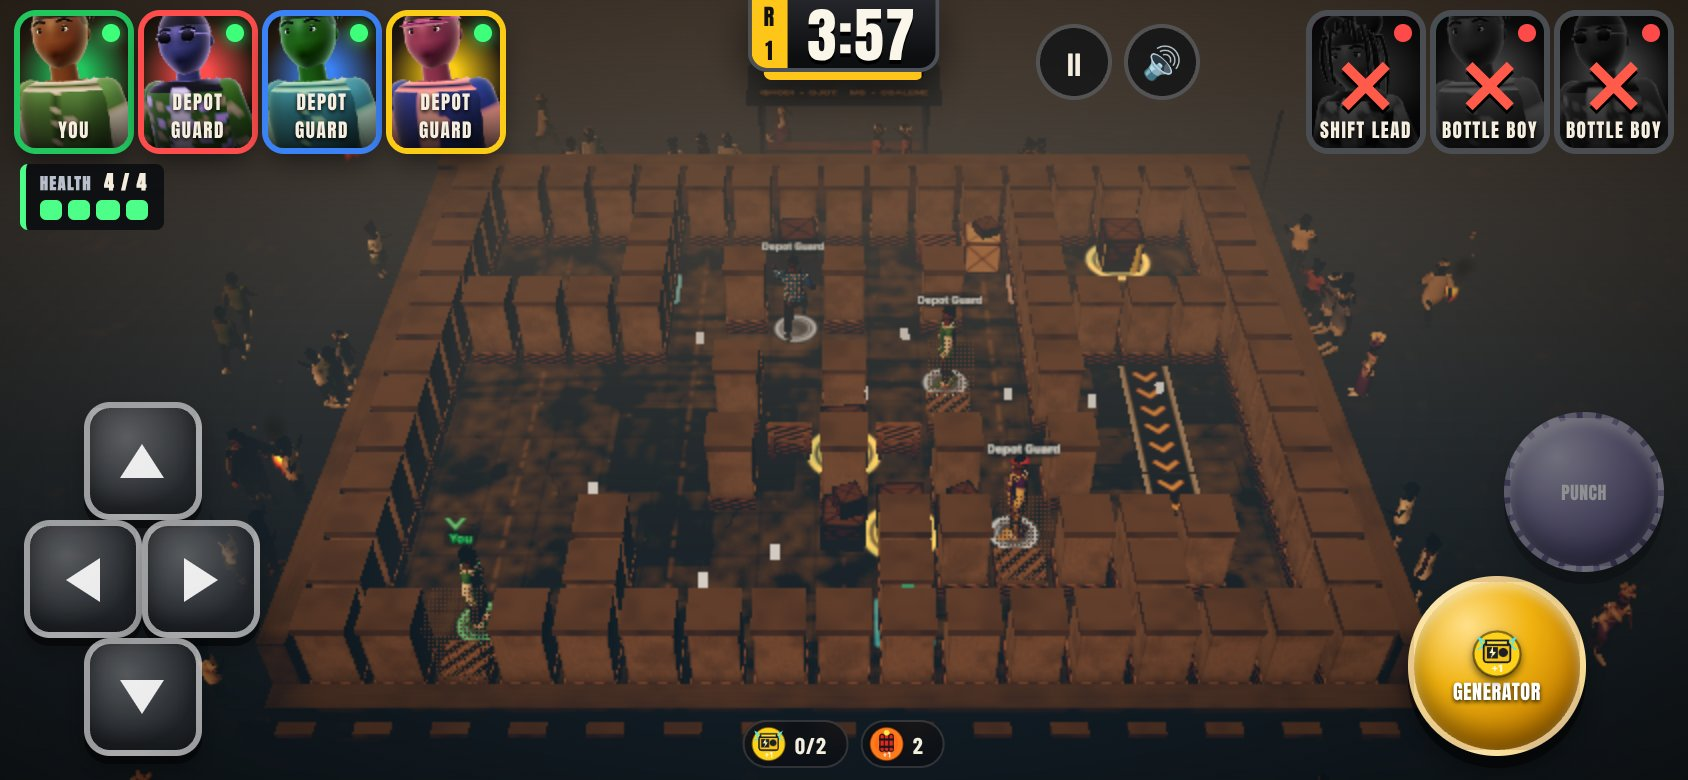
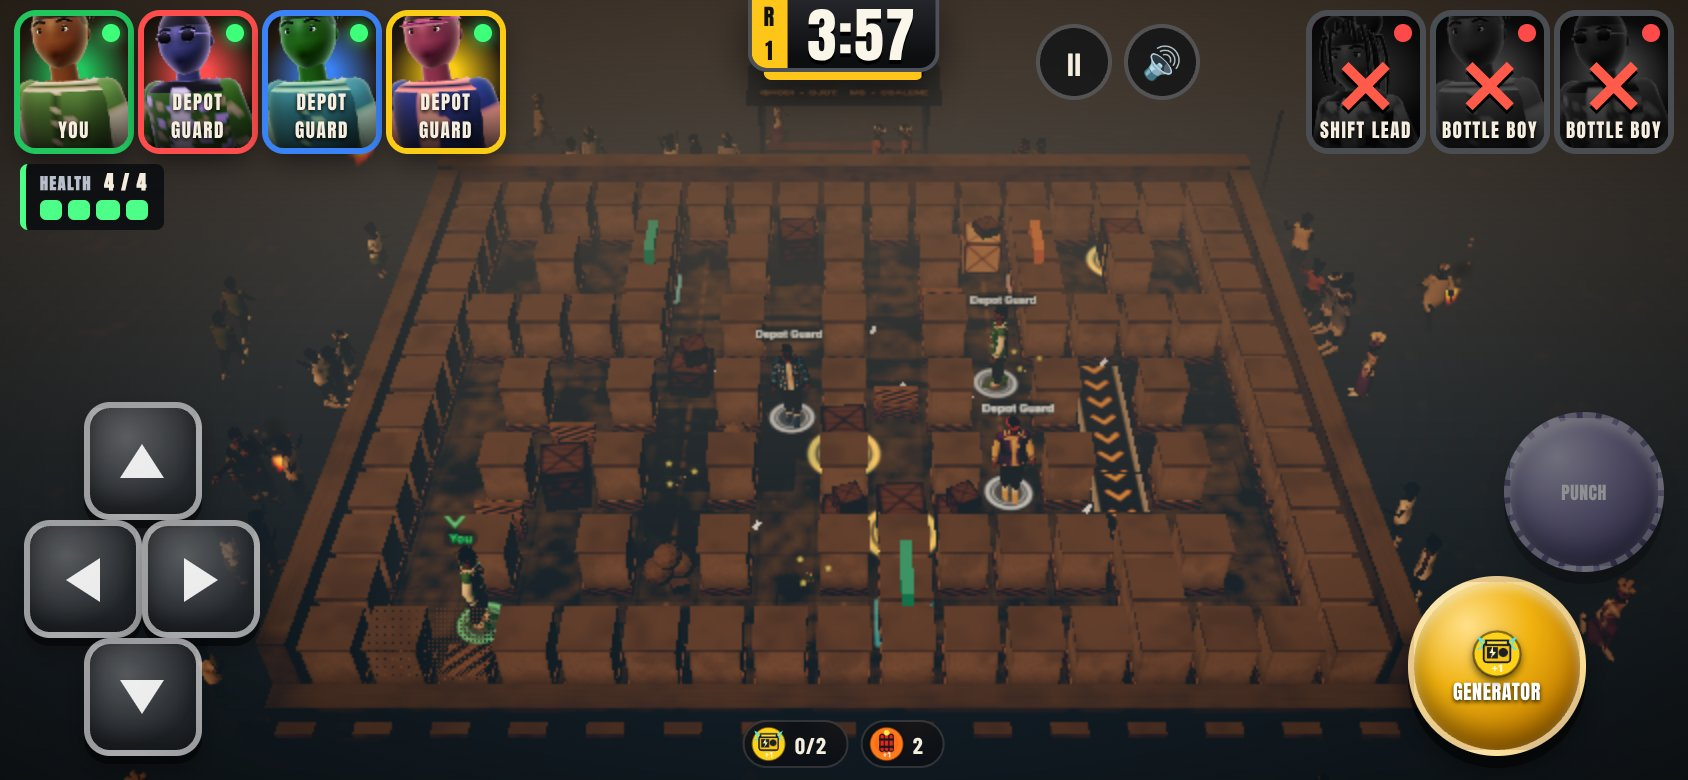
Integration report: classic grid, checkpoint clarity and fair enemy combat; active-enemy browser shots
Claude-Session: https://claude.ai/code/session_01QeTP4yfJfvzQ1TfQbTJU26

diff --git a/docs/CLASSIC_GRID_COMBAT_INTEGRATION.md b/docs/CLASSIC_GRID_COMBAT_INTEGRATION.md
@@ -1,0 +1,71 @@
+# Classic grid, checkpoint clarity and fair enemy combat: integration report
+
+Branch `claude/wahala-classic-grid-combat-v1`, from the deployed release `a4fe457`. **Not merged, not deployed.** Founder review first.
+Detail per part: `CLASSIC_GRID.md` (raid layouts, before/after boards and metrics), `CHECKPOINT_CLARITY.md` (markers and wording),
+`ENEMY_COMBAT_FAIRNESS.md` (measured enemy behaviour, before/after tables, the Normal baseline). Decisions: CG1-CG9, CK1-CK8, EF1-EF8.
+
+## Root causes
+
+1. **Open raids.** Four of the six classic raids were authored as open floors: the depot had 54 open 2x2 squares (18 open 3x3) and
+   only half its pillar lattice; the rail yard 74 / 37 with 7 of 28 pillars; the storeroom and the vault's bottom hall were patchy.
+   Cross bombs need corridors: in a hall every blast has a free side step, so nothing can be trapped. Movement itself was already
+   cardinal; no clipping was found.
+2. **Checkpoints.** Walk-through checkpoints complete the instant you step on the current one (no waiting); the warehouse door needs a
+   1 s hold. Both were drawn with the same pad and filling ring, so a walk-through checkpoint looked like a "wait here" pad; the text did
+   not say "no waiting"; on phones the objective could be cut off; the compass could prefer an optional door.
+3. **Enemies.** Campaign enemies ran the full multiplayer bot planner (perfect fuse knowledge: 81-88 % of basic enemies in a fresh
+   blast cross walked out), had no punishable recovery after attacking, and the player's melee carried the multiplayer anti-chain limits
+   (3 s per-target lockout), so a 2-health guard took 3+ s of standing next to it. Repeated interruption was NOT a cause (0 chains
+   measured); the frequency of interruptions was.
+
+## What changed (summary; the per-part documents have the detail)
+
+- **Raids (CG):** the depot, rail yard, storeroom and vault are classic pillar mazes (open 2x2 now 0 / 3 / 0 / 1, open 3x3 0, pillar
+  lattice 32/34, 27/28, 24/24, 29/30); every mechanic kept; a shape rule in `raidProblems` (`src/sim/raid/shape.ts`) rejects any raid with
+  an open 3x3, more than 4 open 2x2 (only in rooms, at belts or at the entrance/exit) or under 85 % of the lattice; raid pillars drawn at
+  72 % height so corridors stay visible from the fixed camera. Tool shed and standby plant were already classic (one crate moved so the
+  entrance pocket has two exits).
+- **Checkpoints (CK):** a tall beacon for walk-through checkpoints (current bright gold with an arrow, later faint, reached ones flash and
+  keep a tick), a different square pad with a fill ring for hold-to-interact doors, a "HOLD 0.4 / 1.0 s" bar in the rail, a reached notice
+  with the next objective, GO TO / HOLD / DEFEAT / ESCAPE / RETURN tags with "walk through, no waiting", "all must go down", "fights
+  optional", and plain objective lines for all eleven field missions. No rule, timing or position changed.
+- **Enemies (EF, campaign seats only; multiplayer byte-identical):** limited bomb awareness (late notice of a generator while brawling,
+  a seeded slip), a rooted recovery after punches and throws, no attacks from inside a noticed blast cross, a 1.1 s cap on the player's
+  per-enemy lockout, steadfast heavies/bosses against jabs, field pursuers give up beyond 14 tiles, and a fix for field seat 1 being
+  forced to Standard. Normal baseline = the Casual bot level (Standard = candidate Hard; Rookie/Beginner = candidate Easy).
+- **Integration (this report):** the fairness harness now picks fights by walking distance; on the maze depot straight-line distance put
+  an enemy "two tiles away" behind a pillar and the scripted player bombed a wall until the clock ran out.
+
+## Verification
+
+- Unit: the integrated targeted set (raids, enemies, field, missions, campaign, app, ui, render, input, audio, blast rules, combat,
+  architecture) 1883 tests, all passing after the harness fix; multiplayer hash and bot-digest regressions unchanged.
+- Active enemies (real bots, real raid runtime, scripted player using only walk / generator / punch): the maze depot is completed in
+  11 of 12 seeds at Normal (Casual) with 0-1 deaths, 0-3 health lost and no interruption chain. The miss (seed 2) is a timeout, not a
+  defeat: the lieutenant hovers round a pillar corner, out of every cross, while the scripted player keeps bombing from one corridor
+  mouth. A human would come round the other side; it is listed below.
+- Browser smoke (built preview, desktop and phone): checkpoint clarity (reach, notice, door hold, raid start), field mission, raid with
+  cross bombs and cargo destroyed, enemy projectile, field to raid and back, boss bar, campaign death and respawn, mobile cross, no
+  blast toggle in Rumble: 21 passed, 1 skipped (a phone-only test on the desktop project). Production build and the static check pass.
+- One browser run of the maze depot with the real enemy bots awake (`docs/screenshots/classic-grid-combat/`): enemies act, no page
+  errors; the health loss in the second picture is the scripted player's own blast (it walked only two tiles), shown as "HIT BY BLAST".
+
+## Still needs human gameplay verification
+
+- How the mazes FEEL to play with real hands: trap opportunities, whether corridors are too tight on a phone, belt crossings in the yard.
+- Advanced enemies hovering: a lieutenant can stay out of every cross at a pillar corner without committing to an attack. If that reads
+  as "it just runs away", the next step is an anti-hover commitment (after N seconds near the player without attacking, it must close in).
+- Brawling enemies walking past a fresh generator: focused or stupid? The recovery roots have no pose yet (a held stance would help).
+- The 14-tile field give-up on real maps; mandatory `clearGroup` legs played end to end with active bots.
+- Checkpoint beacons on Oshodi's yellow bus rows (the arrow carries it there) and the door marker partly behind the south wall.
+
+## Integration with the other session's branch
+
+`origin/claude/wahala-lagos-enhancement-v1` (`a583e0b` when checked; 13 commits) shares the base `a4fe457`. Files changed on both:
+`docs/DECISIONS.md`, `docs/IMPLEMENTATION_STATUS.md`, `src/campaign/content/sections.ts`, `src/render/assets/obstacleStyles.ts`,
+`src/sim/config.ts`, `src/sim/index.ts`, `src/sim/mission/fieldDefs.ts`. A dry-run merge (nothing merged) conflicts in four files:
+the two docs (both append; keep both), `src/sim/index.ts` (both add export lines; keep both) and one Ebute-Metta leg in `fieldDefs.ts`
+(keep their moved coordinates `ebuteX(...)` with this branch's plain objective line). The other three shared files merge cleanly.
+Semantic note for the difficulty work: this branch adds campaign-only knobs (`config.enemyAttacks.awareness`, recovery roots,
+`campaign.vsEnemy.targetLockoutTicks`, `pursuitGiveUpTiles`, `ENEMY_KINDS[kind].steadfast`) that Easy / Hard should scale, and sets the
+Normal enemy bot level to Casual.
